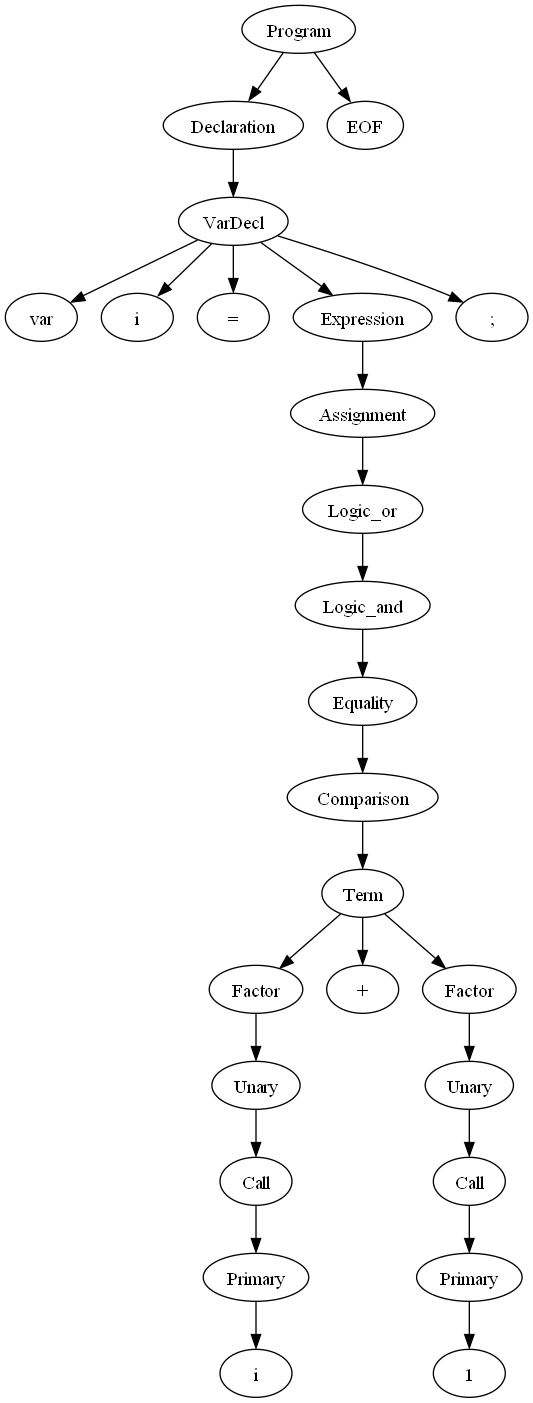
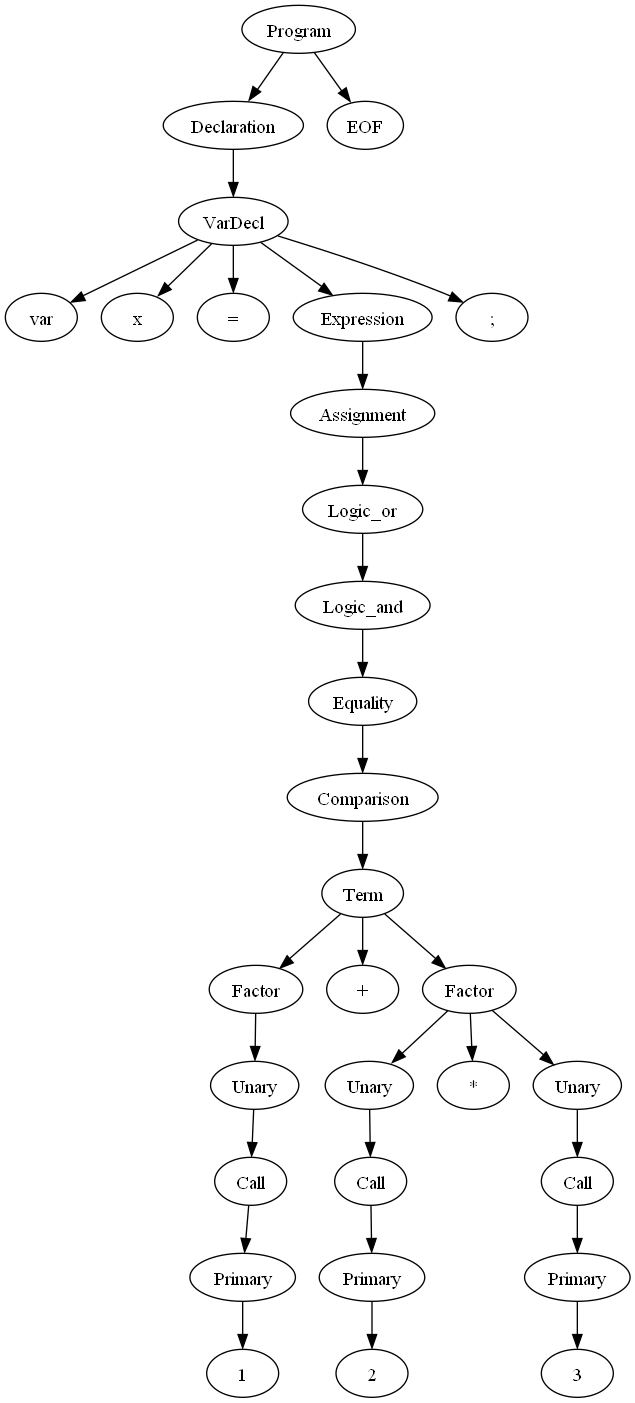
Factor Update

diff --git a/src/SymbolTable/table_generator.py b/src/SymbolTable/table_generator.py
@@ -308,7 +308,24 @@ class TableGenerator(compiscriptVisitor):
                 
                 # Check if the variable is a string
                 self.visitChildren(ctx)
-                
+
+        else:
+            self.printf("INFO -> This is a wrapper node")
+            # Visit the rest of the tree
+            self.visitChildren(ctx)
+
+
+    def visitFactor(self, ctx:compiscriptParser.FactorContext):
+        self.printf("VISIT -> Factor node")
+        
+        # Check if the factor is not a wrapper node
+        if ctx.getChildCount() > 1:
+            self.printf("INFO -> This is a valid factor")
+            # Check if we are in a valid assignment context
+            if self.current_variable is not None:
+                # Set the data type of the variable
+                self.printf("INFO -> Setting data type for factor")
+                self.current_variable.set_values(NumberType())
         else:
             self.printf("INFO -> This is a wrapper node")
             # Visit the rest of the tree
